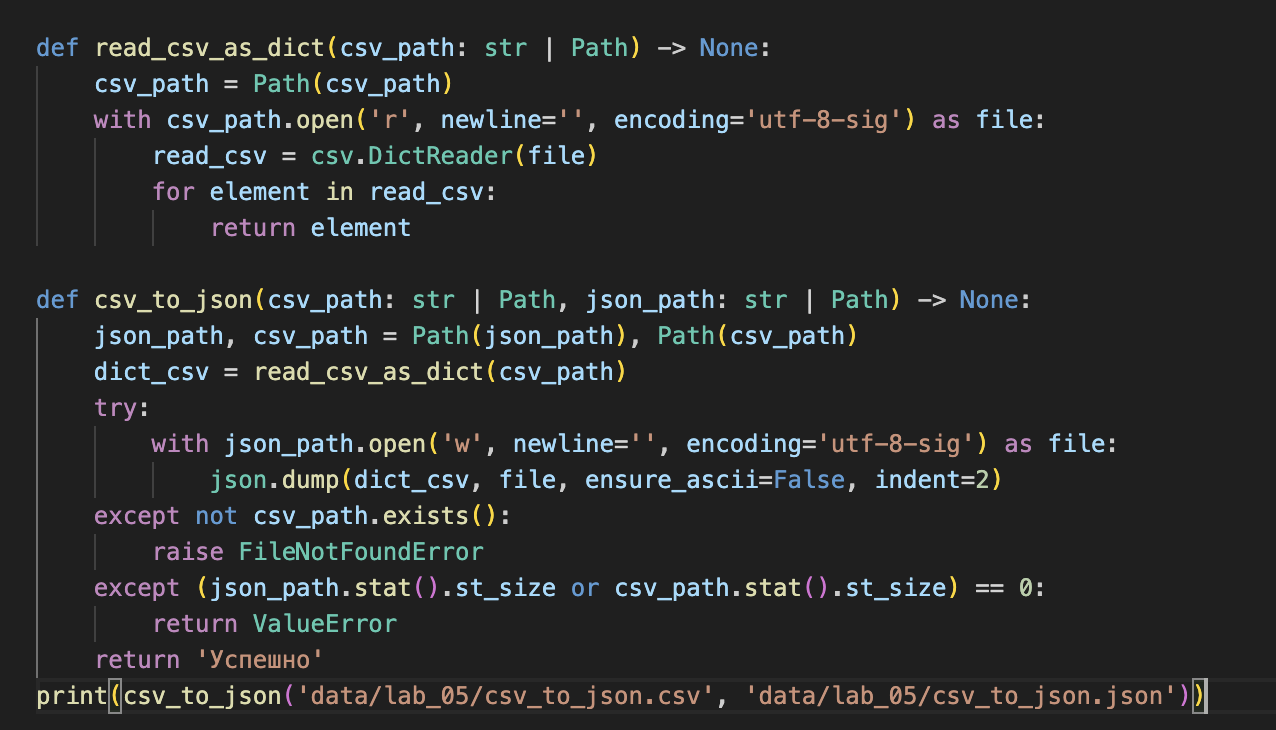
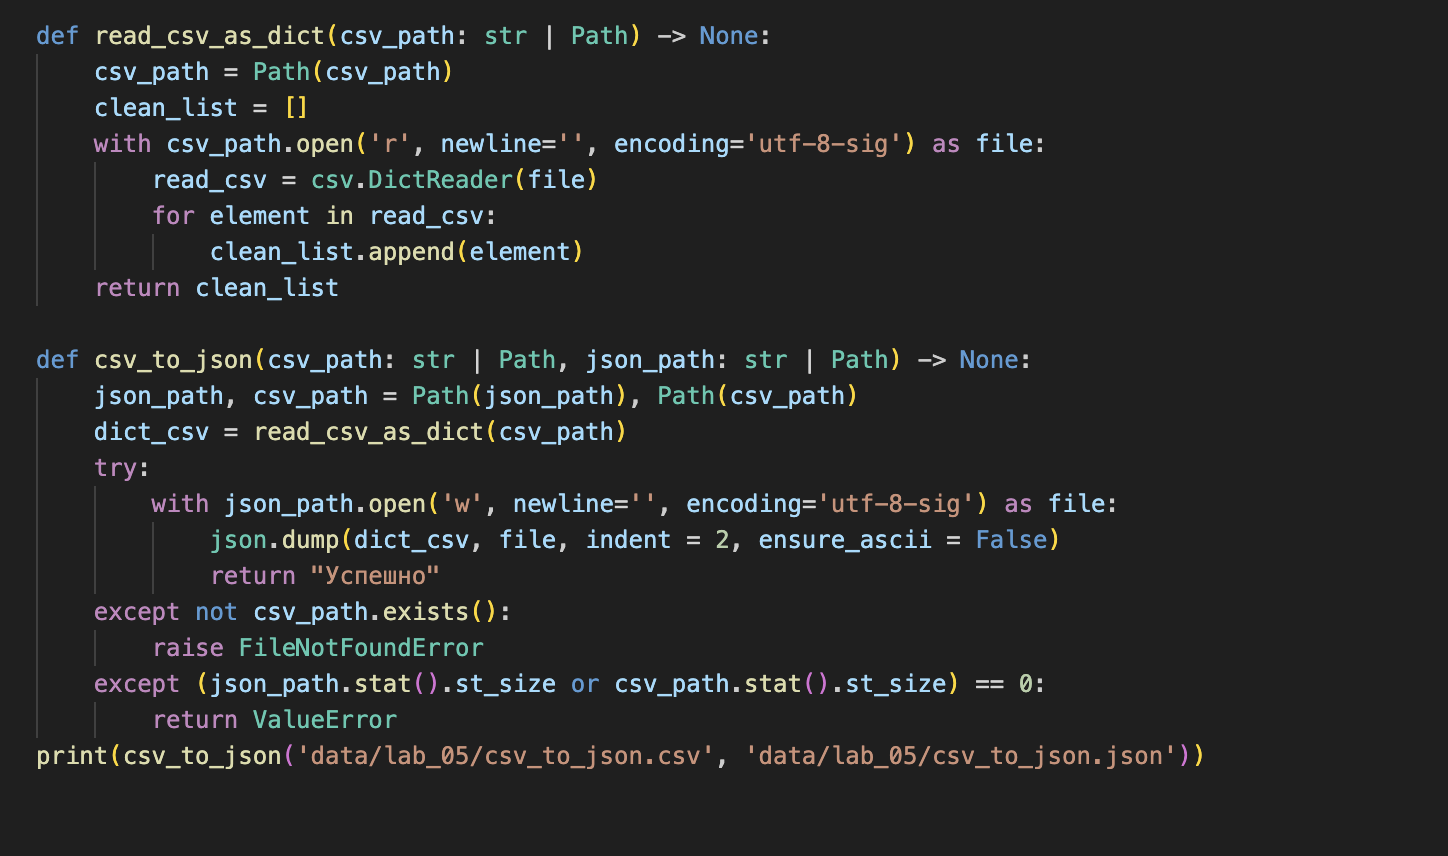
update

diff --git a/src/lab_05/json_csv.py b/src/lab_05/json_csv.py
@@ -26,16 +26,19 @@ print(json_to_csv('data/lab_05/json_to_csv.json', 'data/lab_05/json_to_csv.csv')
 
 def read_csv_as_dict(csv_path: str | Path) -> None:
     csv_path = Path(csv_path)
+    clean_list = []
     with csv_path.open('r', newline='', encoding='utf-8-sig') as file:
         read_csv = csv.DictReader(file)
         for element in read_csv:
-            return element
+            clean_list.append(element)
+    return clean_list
+
 def csv_to_json(csv_path: str | Path, json_path: str | Path) -> None:
     json_path, csv_path = Path(json_path), Path(csv_path)
     dict_csv = read_csv_as_dict(csv_path)
     try:
         with json_path.open('w', newline='', encoding='utf-8-sig') as file:
-            json.dump(dict_csv, file, ensure_ascii=False, indent=2)
+            json.dump(dict_csv, file, indent = 2, ensure_ascii = False)
             return "Успешно"
     except not csv_path.exists():
         raise FileNotFoundError
